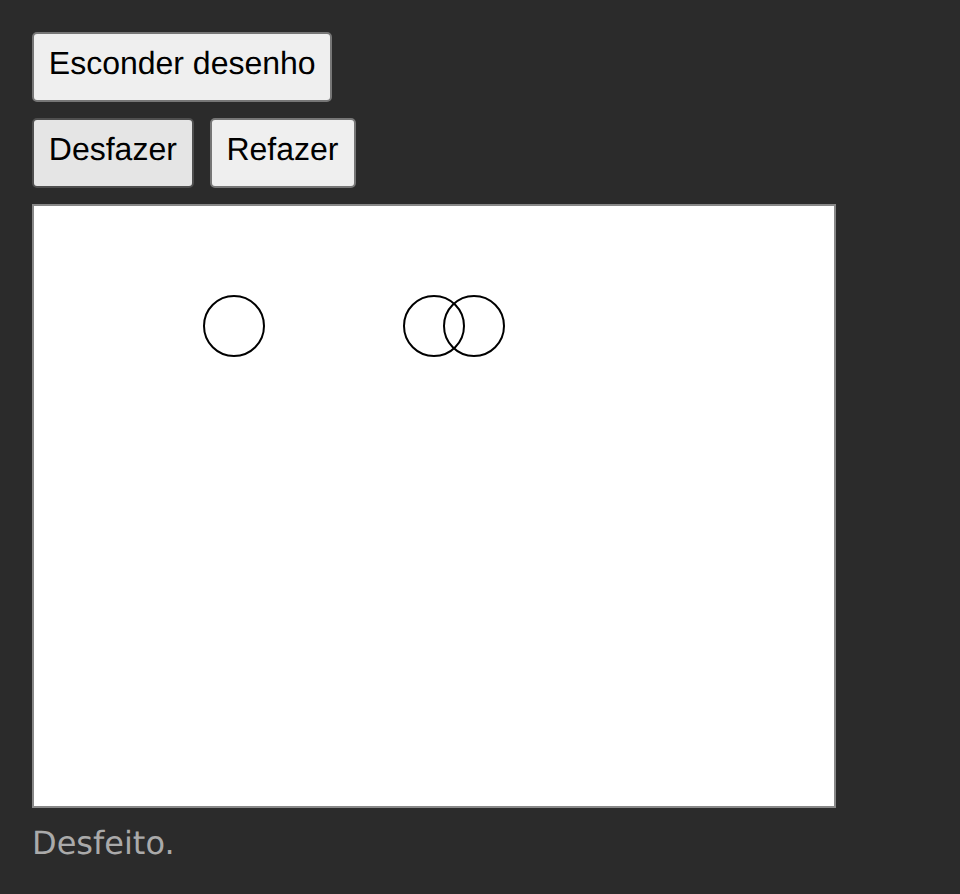
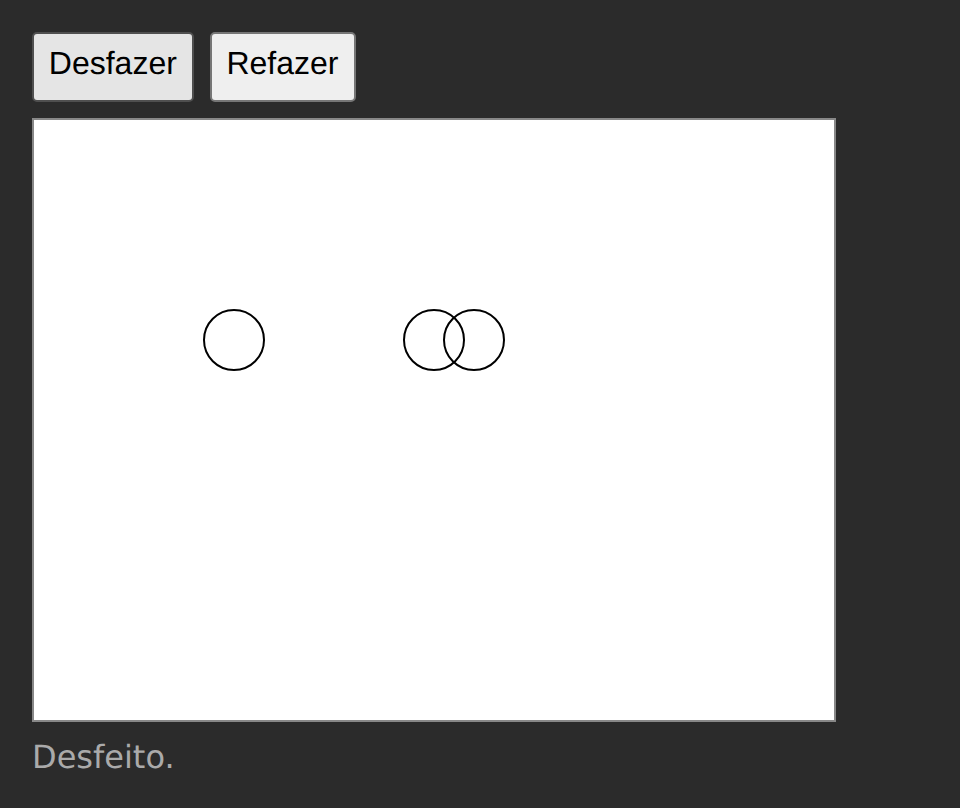
Hospeda o Circle Drawer no Solid pela página comum
O Circle Drawer no Solid ainda traz a página com o botão "Esconder
desenho"/"Mostrar desenho", um segundo componente que só existe para o
teste de conformidade tirar o desenho da página, e por isso falha nas
verificações de "Limpeza ao sair da tela", que desde "Confere a limpeza
ao sair da tela pela rota da página, sem botão" saem e voltam pela rota
do hash de implementacoes/pagina.ts (ADR 0043).

A página sai, com o signal "visivel" e o <Show> do desenho, e fica o par
montar e desmontar no idioma da tecnologia: o render do desenho no
contêiner, cujo dispose devolvido roda os onCleanup. O contêiner #raiz
do index.html passa a ser o <main> com a classe do layout, que a página
montava. A limpeza ao sair da tela, no onCleanup, não muda: é o que se
compara.

Conferido com npm run conformidade -- desenho-de-circulos/solid (27
verificações ok) e com as capturas regeradas: as 5 cenas saem sem o
botão, idênticas às das outras tecnologias do Circle Drawer.

diff --git a/implementacoes/desenho-de-circulos/solid/src/main.tsx b/implementacoes/desenho-de-circulos/solid/src/main.tsx
@@ -1,10 +1,4 @@
-import {
-  createEffect,
-  createMemo,
-  createSignal,
-  onCleanup,
-  Show,
-} from "solid-js";
+import { createEffect, createMemo, createSignal, onCleanup } from "solid-js";
 import { createStore, produce, unwrap } from "solid-js/store";
 import { render } from "solid-js/web";
 import {
@@ -22,6 +16,7 @@ import {
   type Circulo,
   type Ponto,
 } from "../../dominio";
+import { hospedar } from "../../../pagina";
 import "../../estilo.css";
 
 function AreaDeDesenho() {
@@ -237,23 +232,4 @@ function AreaDeDesenho() {
   );
 }
 
-// A página: o botão que tira o desenho da página e o põe de volta.
-function Pagina() {
-  const [visivel, setVisivel] = createSignal(true);
-  return (
-    <main class="pagina">
-      <button
-        type="button"
-        class="alternar"
-        onClick={() => setVisivel(!visivel())}
-      >
-        {visivel() ? "Esconder desenho" : "Mostrar desenho"}
-      </button>
-      <Show when={visivel()}>
-        <AreaDeDesenho />
-      </Show>
-    </main>
-  );
-}
-
-render(() => <Pagina />, document.getElementById("raiz")!);
+hospedar((conteiner) => render(() => <AreaDeDesenho />, conteiner));

diff --git a/implementacoes/desenho-de-circulos/solid/index.html b/implementacoes/desenho-de-circulos/solid/index.html
@@ -6,7 +6,7 @@
     <title>Circle Drawer com Solid</title>
   </head>
   <body>
-    <div id="raiz"></div>
+    <main id="raiz" class="pagina"></main>
     <script type="module" src="/src/main.tsx"></script>
   </body>
 </html>
